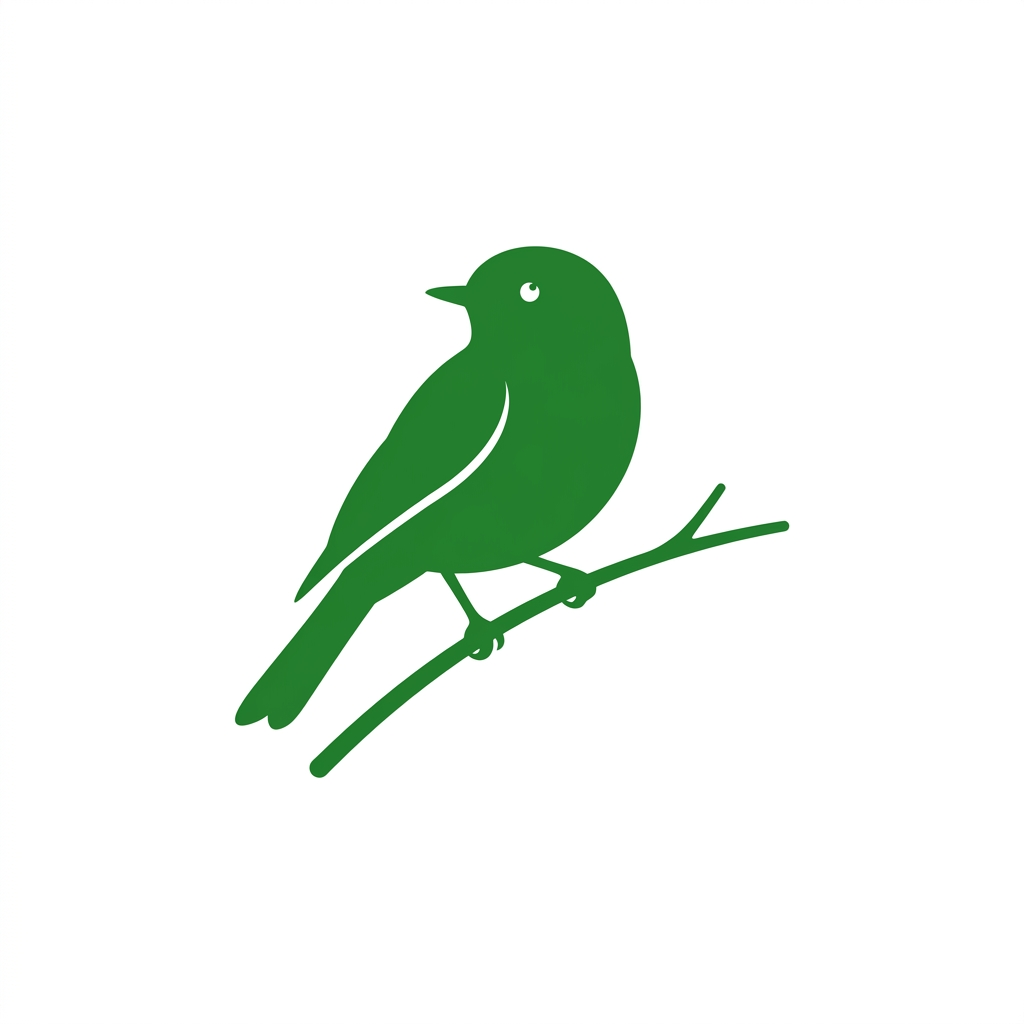
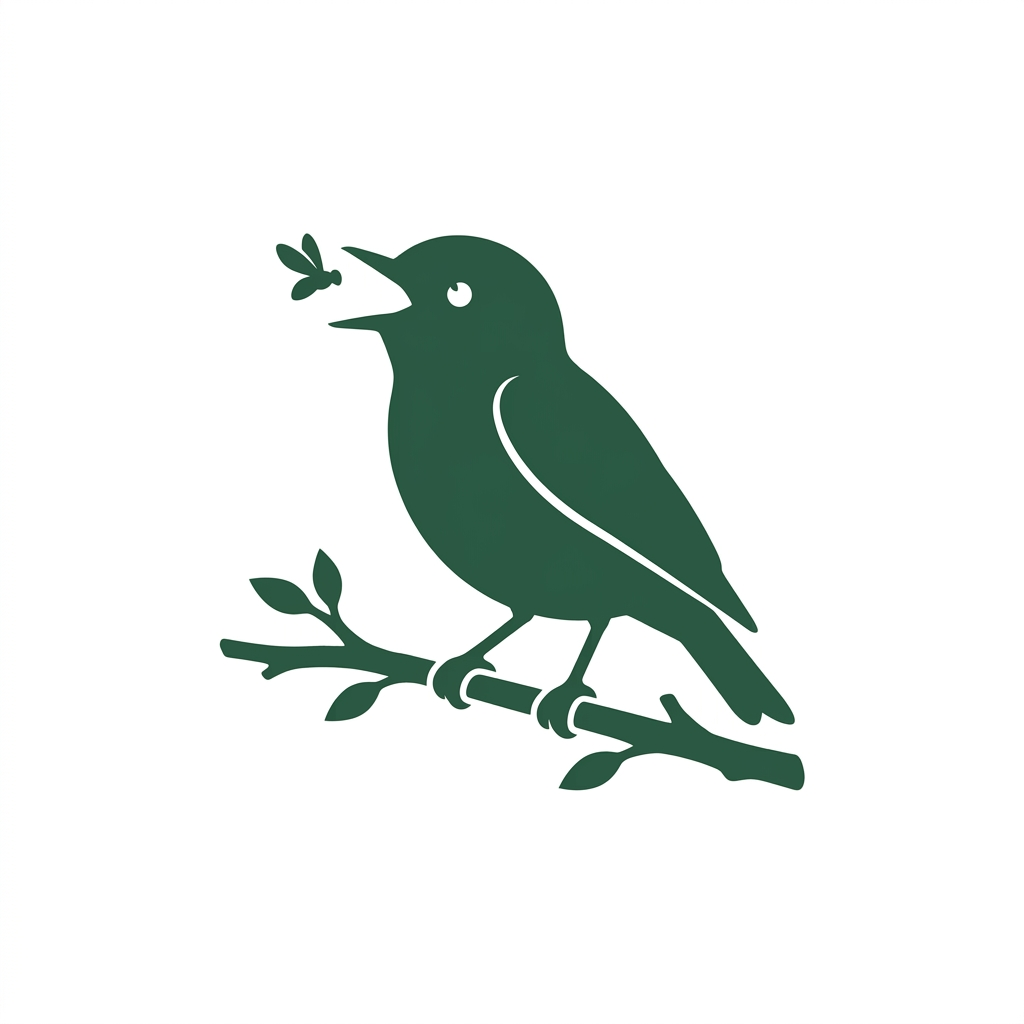
style: Omgenererat flugsnapparnas kategori-ikon med flugsnabbt tema

Changed region(s): [[0.2188, 0.2188, 0.7812, 0.7812]]

diff --git a/.agent/status.md b/.agent/status.md
@@ -17,6 +17,7 @@
 
 | Datum | Konversation | Vad gjordes |
 |---|---|---|
+| 2026-08-10 | 🎨 Bildgenerering | Omgenererat kategori-ikonen för Flugsnappare (`images/category_icons/flugsnappare.png`) med en flugsnappare som fångar en fluga |
 | 2026-08-10 | 🔍 Identifiera | Quiz-repetitionsalgoritm: Utesluter nyligen rätt besvarade arter i `app.js` så endast felsvarade/nya arter återkommer |
 | 2026-08-10 | 🔍 Identifiera | Utökat Quiz med miljö-kategorier (Vattenfåglar, Åkerfåglar, Skogsfåglar) i `index.html` och `app.js` |
 | 2026-08-10 | 🐛 Bugg och fix | Dölja kamera- och papperskorgsikoner på stora bildkort i Min logg på mobilen (CSS media query) |
@@ -44,7 +45,7 @@
 
 ### 🎨 Generera bilder
 - [x] Skapa en ny ikonbild för flugsnappare (helgrön med vit bakgrund i `images/category_icons/flugsnappare.png`)
-- [ ] Anpassa Flugsnappares ikonstil så den liknar övriga ikoner
+- [x] Omgenerera Flugsnappares ikonstil med en fågel som fångar en flygande fluga
 - [ ] Generera silhuett-versioner av rovfåglar och andra fåglar
 
 ### 🐛 Bugg och fix
